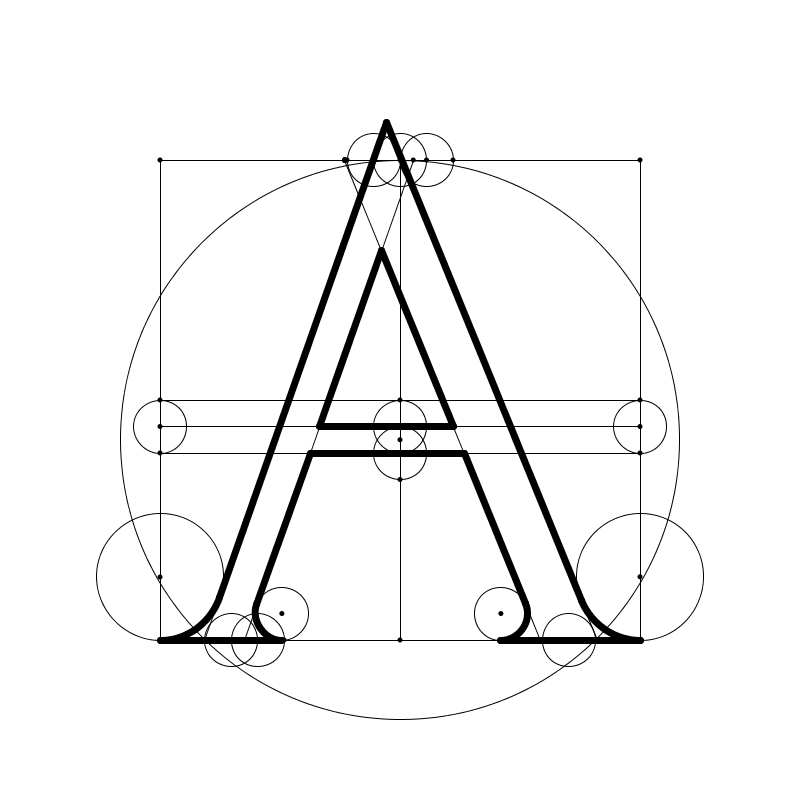
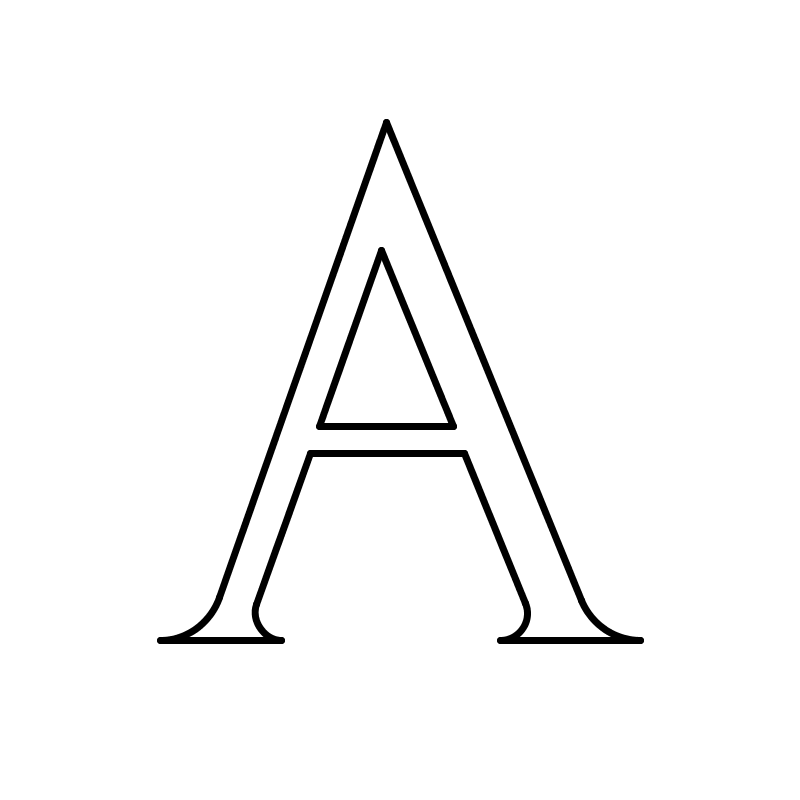
added clean letter plot

diff --git a/Readme.md b/Readme.md
@@ -4,5 +4,5 @@ This is a proof of concept of the geometrically-constructed Roman alphabet
 by David Lance Goines, sourced online
 [here](http://www.professores.uff.br/hjbortol/arquivo/2011.1/goines/goines-html/goines-en.html).
 
-![A
-in-progress](https://raw2.github.com/mhlinder/goines-alphabet/master/A.png)
+![A_geometry](https://raw2.github.com/mhlinder/goines-alphabet/master/A_geo.png)
+![A](https://raw2.github.com/mhlinder/goines-alphabet/master/A.png)
